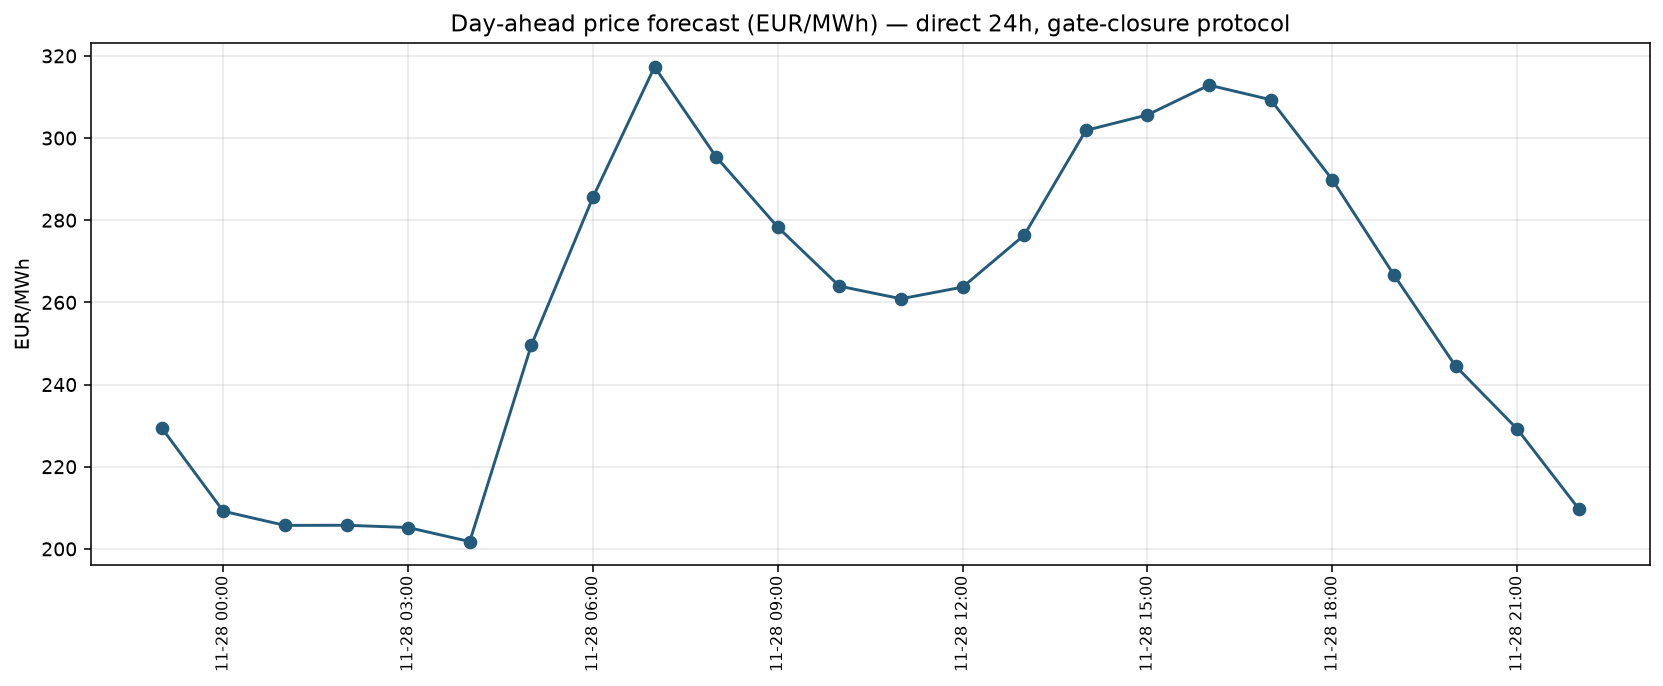
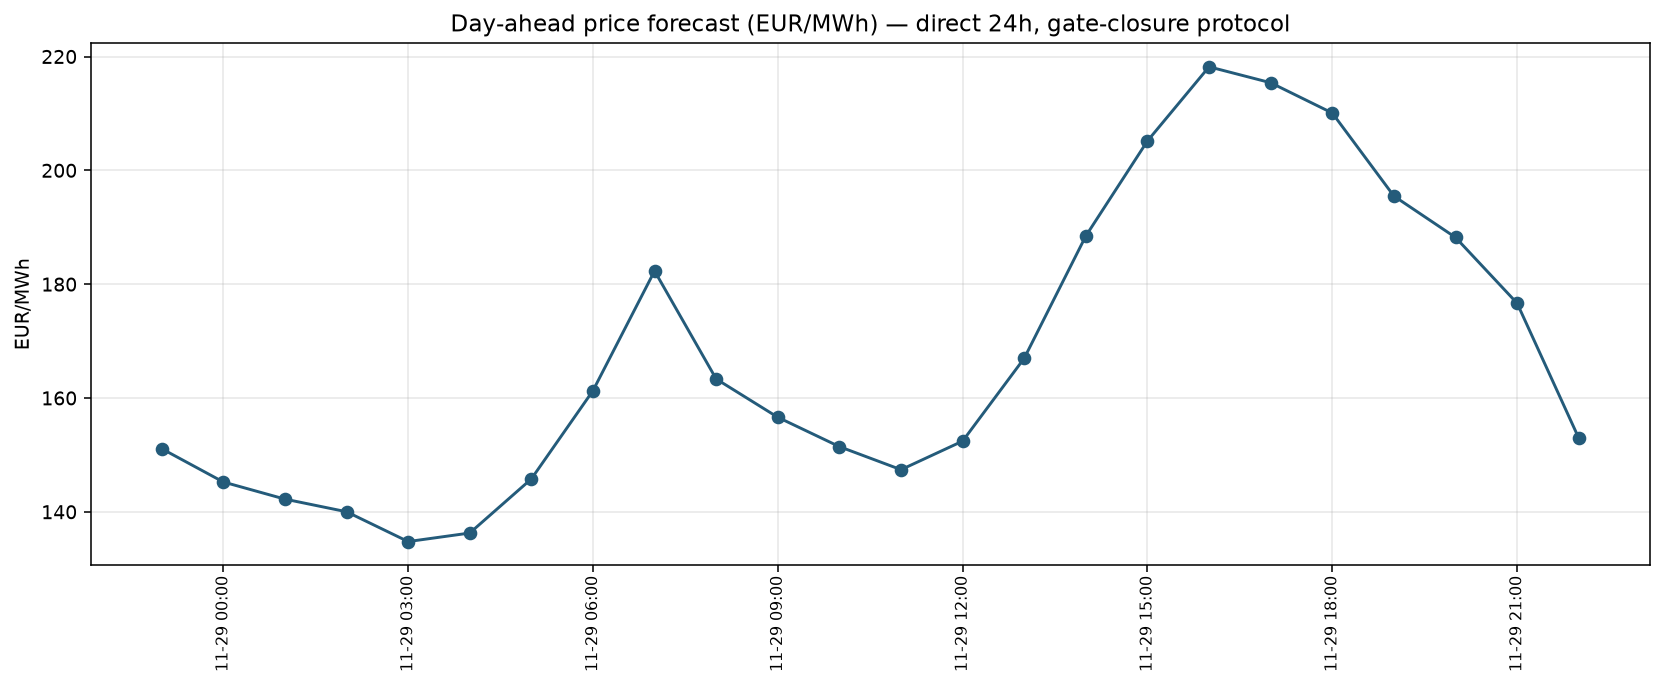
chore: daily forecast 2026-11-28

diff --git a/README.md b/README.md
@@ -179,9 +179,9 @@ Code: MIT. Market data remain under their original terms. SMARD-related series: 
 
 ## Live daily forecast
 
-**Generated (UTC):** 2026-11-27 10:20  
-**Based on data up to (UTC):** 2026-11-27 22:00  
-**Forecast horizon (UTC):** 2026-11-27 23:00 to 2026-11-28 22:00  
+**Generated (UTC):** 2026-11-28 10:10  
+**Based on data up to (UTC):** 2026-11-28 22:00  
+**Forecast horizon (UTC):** 2026-11-28 23:00 to 2026-11-29 22:00  
 **Protocol:** gate-closure features (lags >= 24 h, complete-day context) + external_shift = 24 + direct 24h + shrunk hourly bias correction
 
 ### Forecast chart
@@ -192,30 +192,30 @@ Code: MIT. Market data remain under their original terms. SMARD-related series: 
 
 | Hour (UTC) | Forecast (EUR/MWh) | Bias |
 |------------|--------------------|------|
-| 2026-11-27 23:00 | 229.45 | -10.91 |
-| 2026-11-28 00:00 | 209.17 | -10.95 |
-| 2026-11-28 01:00 | 205.72 | -9.98 |
-| 2026-11-28 02:00 | 205.75 | -9.67 |
-| 2026-11-28 03:00 | 205.20 | -8.57 |
-| 2026-11-28 04:00 | 201.78 | -7.17 |
-| 2026-11-28 05:00 | 249.60 | -13.26 |
-| 2026-11-28 06:00 | 285.58 | -17.50 |
-| 2026-11-28 07:00 | 317.34 | -21.48 |
-| 2026-11-28 08:00 | 295.41 | -20.27 |
-| 2026-11-28 09:00 | 278.32 | -18.44 |
-| 2026-11-28 10:00 | 263.95 | -15.72 |
-| 2026-11-28 11:00 | 260.88 | -14.20 |
-| 2026-11-28 12:00 | 263.72 | -14.14 |
-| 2026-11-28 13:00 | 276.36 | -16.26 |
-| 2026-11-28 14:00 | 301.86 | -18.66 |
-| 2026-11-28 15:00 | 305.64 | -19.53 |
-| 2026-11-28 16:00 | 312.88 | -20.12 |
-| 2026-11-28 17:00 | 309.33 | -20.81 |
-| 2026-11-28 18:00 | 289.88 | -19.32 |
-| 2026-11-28 19:00 | 266.70 | -16.35 |
-| 2026-11-28 20:00 | 244.52 | -15.77 |
-| 2026-11-28 21:00 | 229.21 | -14.83 |
-| 2026-11-28 22:00 | 209.75 | -14.50 |
+| 2026-11-28 23:00 | 151.09 | -10.01 |
+| 2026-11-29 00:00 | 145.24 | -10.62 |
+| 2026-11-29 01:00 | 142.23 | -9.38 |
+| 2026-11-29 02:00 | 140.01 | -8.84 |
+| 2026-11-29 03:00 | 134.77 | -7.74 |
+| 2026-11-29 04:00 | 136.27 | -6.51 |
+| 2026-11-29 05:00 | 145.78 | -9.78 |
+| 2026-11-29 06:00 | 161.28 | -12.62 |
+| 2026-11-29 07:00 | 182.32 | -15.53 |
+| 2026-11-29 08:00 | 163.34 | -15.03 |
+| 2026-11-29 09:00 | 156.61 | -13.26 |
+| 2026-11-29 10:00 | 151.45 | -10.74 |
+| 2026-11-29 11:00 | 147.40 | -9.29 |
+| 2026-11-29 12:00 | 152.42 | -9.26 |
+| 2026-11-29 13:00 | 166.98 | -11.19 |
+| 2026-11-29 14:00 | 188.47 | -12.99 |
+| 2026-11-29 15:00 | 205.16 | -14.28 |
+| 2026-11-29 16:00 | 218.19 | -15.26 |
+| 2026-11-29 17:00 | 215.39 | -15.55 |
+| 2026-11-29 18:00 | 210.07 | -14.13 |
+| 2026-11-29 19:00 | 195.48 | -11.73 |
+| 2026-11-29 20:00 | 188.21 | -11.95 |
+| 2026-11-29 21:00 | 176.65 | -11.63 |
+| 2026-11-29 22:00 | 152.97 | -10.94 |
 
 ### Previous forecasts vs realized prices
 
@@ -231,10 +231,11 @@ Code: MIT. Market data remain under their original terms. SMARD-related series: 
 | `forecast_2026-11-25.csv` | 24 | 88.07 | 14.25 | 100.05 | 6.18 | 0.88 | True | yes |
 | `forecast_2026-11-26.csv` | 24 | 136.03 | 48.87 | 66.94 | 2.78 | 2.03 | True | yes |
 | `forecast_2026-11-27.csv` | 24 | 20.45 | 31.13 | nan | 0.66 | nan | True | yes |
+| `forecast_2026-11-28.csv` | 24 | 67.61 | 110.06 | nan | 0.61 | nan | True | yes |
 
-**Valid scored days: 9 | mean MAE model 55.76 | SN24 43.49 | SN168 83.38 | best-of-baselines 41.08**
+**Valid scored days: 10 | mean MAE model 56.95 | SN24 50.89 | SN168 83.38 | best-of-baselines 47.98**
 
-**Days model beats SN24: 5/9 | beats the better of SN24/SN168: 4/9**
+**Days model beats SN24: 6/10 | beats the better of SN24/SN168: 5/10**
 
 _Only rows marked 'Counted = yes' enter the summary. Files from the old code (Pre-gate nan), post-gate runs and duplicate delivery days are shown for transparency but not counted. No statistical claim until >= 60 valid days._
 
